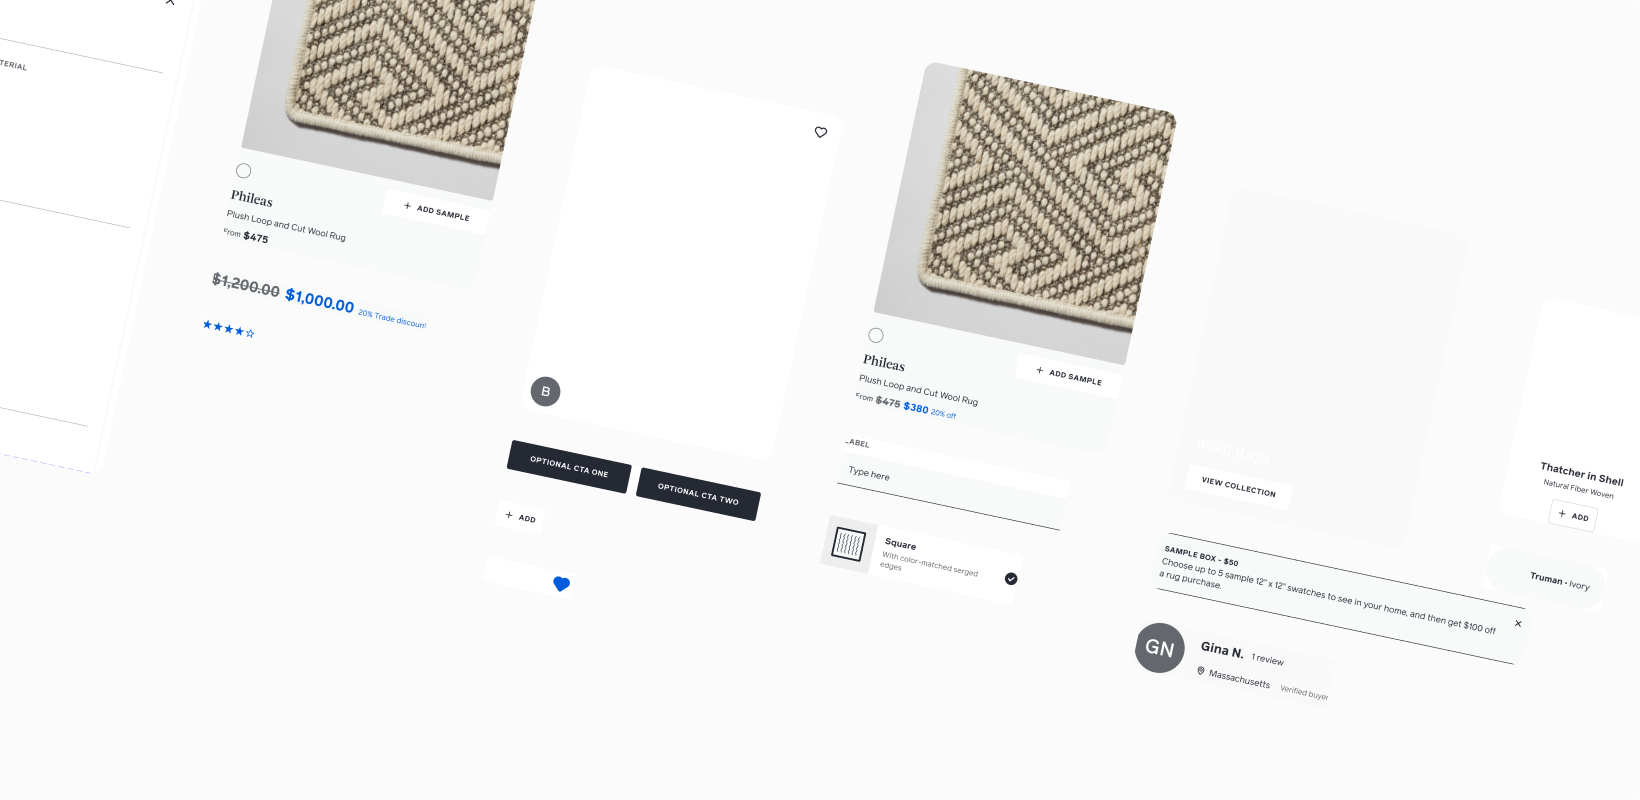
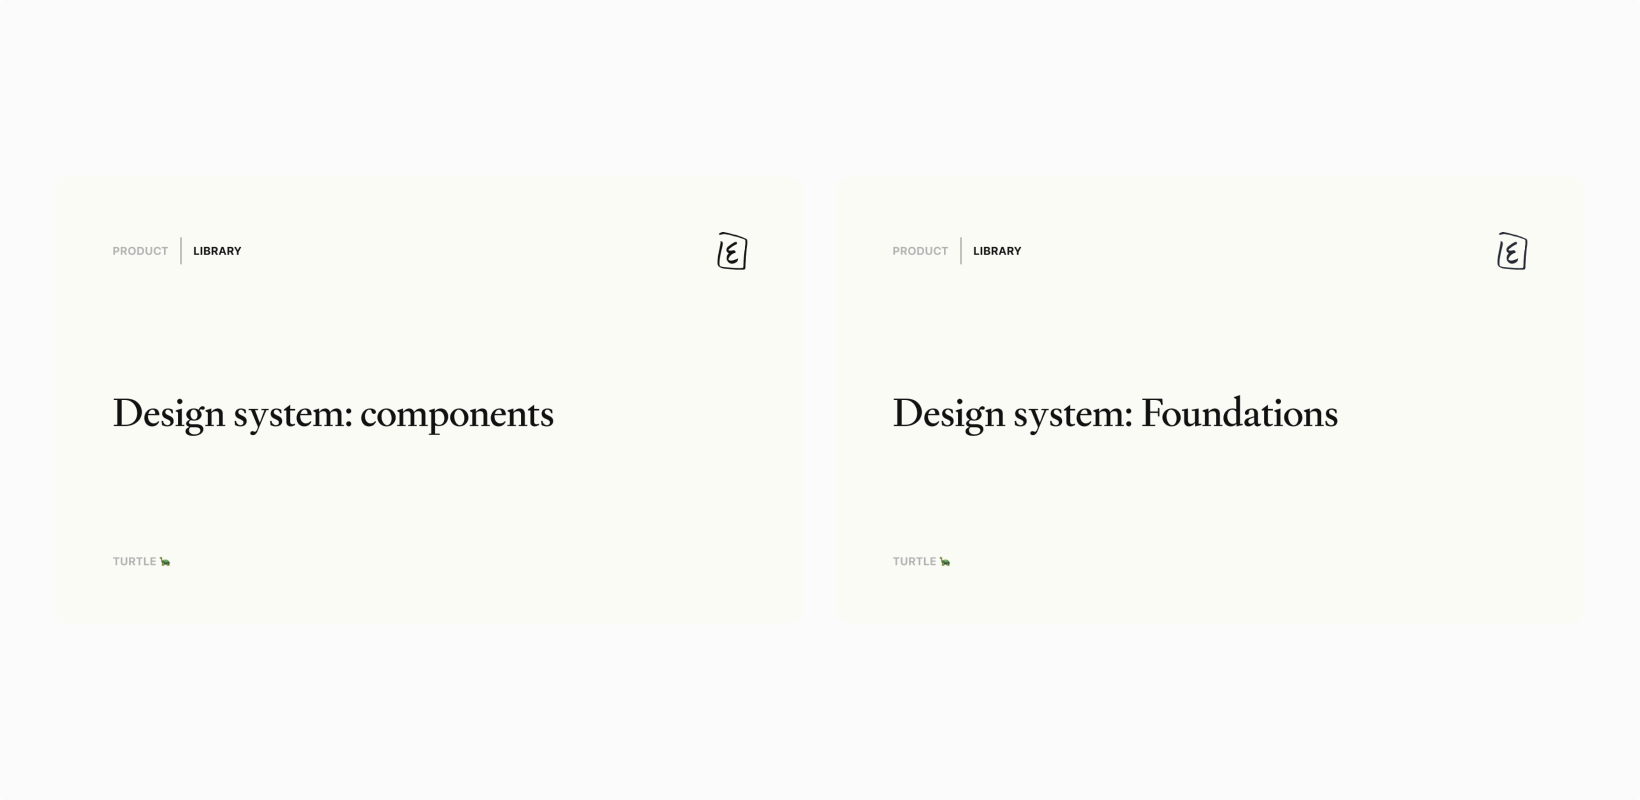
Revert FB checkout and Ernesta DS thumbnails to previous versions
Claude-Session: https://claude.ai/code/session_0195aSm2gAS1eVTkpmw1kGnH

diff --git a/index.html b/index.html
@@ -99,11 +99,11 @@ const RC = 'case study';
 const T = (name, page, img, alt, line, link, wide) => ({ name, href: P(page), img, alt, line, link: link === undefined ? RC : link, wide: !!wide });
 const GROUPS_RAW = [
   { label: 'Meta', pad: 112, tiles: [
-    T('Facebook Web Checkout', 'Facebook Web Checkout', 'assets/images/fig5-t-fb.png', 'Facebook web checkout screens and components', 'I led a stepped, responsive redesign of the global web checkout and the component library behind it, and transactions rose significantly.'),
+    T('Facebook Web Checkout', 'Facebook Web Checkout', 'assets/images/fig5-t-fb.png', 'Facebook web checkout on a phone', 'I led a stepped, responsive redesign of the global web checkout and the component library behind it, and transactions rose significantly.'),
     Object.assign(T('Commerce Tools and Vision work', 'Processes and People', 'assets/images/fig5-t-cxp.png', 'Instagram and Facebook logos', 'I built a Figma product system and an org-wide directory, and Commerce adopted both as its standard. Engineers had no easy way to create test orders, so I designed a tool that makes them in a few taps. (Email me for the password.) I reimagined post-purchase around visibility, delight and business messaging.', 'Processes and People'), { link2: 'Vision Work', href2: P('Vision Work') })
   ]},
   { label: 'Ernesta', pad: 112, tiles: [
-    T('Ernesta Design System', 'Ernesta Design System', 'assets/images/fig5-t-eds.png', 'Ernesta design system components', 'I designed and built the design system: foundations, components and page templates, with engineering.', undefined, true),
+    T('Ernesta Design System', 'Ernesta Design System', 'assets/images/fig5-t-eds.png', 'Ernesta design system libraries', 'I designed and built the design system: foundations, components and page templates, with engineering.', undefined, true),
     T('Shopping filters and assortment nomenclature', 'Ernesta Filters', 'assets/images/fig5-t-efl.png', 'Ernesta filter screens and results', 'Filters built on a lot of work in taxonomy and nomenclature, with buyers, marketing and user research.'),
     T('Internal tools', 'Ernesta Tools', 'assets/images/fig5-t-ern.png', 'Ernesta quote creator and tear sheet', 'I halved quote time on a rote but essential task, and worked around tech limits to give trade customers tear sheets.')
   ]},
